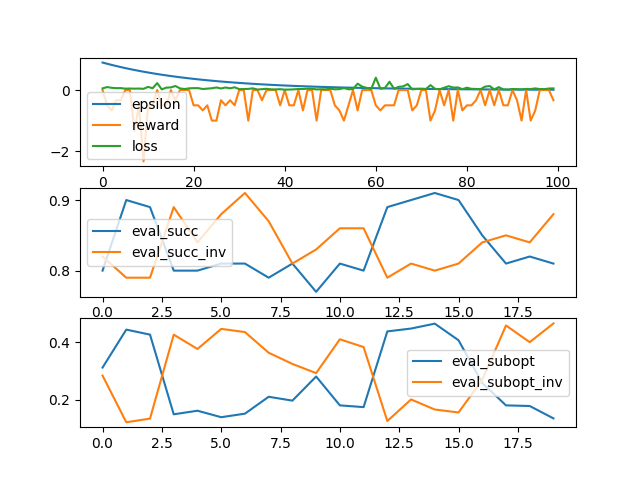
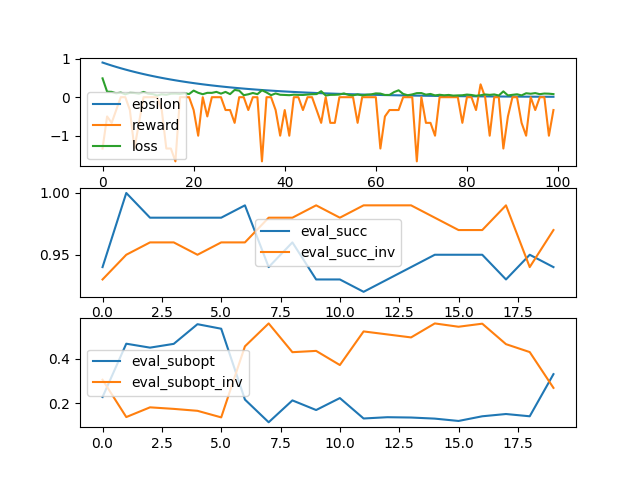
using disappearing agent

diff --git a/planner/mapf_with_rl/mapf_with_rl.py b/planner/mapf_with_rl/mapf_with_rl.py
@@ -1,4 +1,5 @@
 #!/usr/bin/env python3
+import logging
 import random
 from math import exp, isclose, log
 from typing import List, Optional, Tuple
@@ -8,6 +9,7 @@ import torch
 import torch.nn.functional as F
 from definitions import INVALID, SCENARIO_TYPE
 from matplotlib import pyplot as plt
+from planner.mapf_implementations.plan_ecbs import plan_in_gridmap
 from scenarios.evaluators import cost_ecbs
 from scenarios.generators import tracing_pathes_in_the_dark
 from sim.decentralized.iterators import IteratorType
@@ -25,13 +27,23 @@ from torch_geometric.nn import (GCNConv, global_add_pool, global_max_pool,
                                 global_mean_pool)
 
 
+def get_ecbs_cost(scen: SCENARIO_TYPE, ignore_finished_agents: bool):
+    env, starts, goals = scen
+    data = plan_in_gridmap(env, starts, goals, 1.2, 5, ignore_finished_agents)
+    if data is INVALID:
+        return INVALID
+    cost = data['statistics']['cost']
+    return cost / len(starts)
+
+
 class Scenario(object):
-    def __init__(self, this_data: SCENARIO_TYPE) -> None:
+    def __init__(self, this_data: SCENARIO_TYPE, ignore_finished_agents: bool) -> None:
         super().__init__()
         self.env, self.starts, self.goals = this_data
+        self.ignore_finished_agents = ignore_finished_agents
         # trying to solve with ecbs
-        self.ecbs_cost = cost_ecbs(
-            self.env, self.starts, self.goals, timeout=5)
+        self.ecbs_cost = get_ecbs_cost(
+            this_data, ignore_finished_agents)
         self.useful = False
         if self.ecbs_cost != INVALID:
             self.useful = True
@@ -83,7 +95,7 @@ class Scenario(object):
             self.env, self.agents, False,
             IteratorType.BLOCKING1,
             pause_on=PolicyCalledException,  # type: ignore
-            ignore_finished_agents=False)
+            ignore_finished_agents=self.ignore_finished_agents)
         # return either new state or results
         if has_exception(scenario_result):  # not done
             (average_time, _, _, _, exception
@@ -113,7 +125,7 @@ class Scenario(object):
         return state, reward
 
 
-def make_useful_scenarios(n: int, seed) -> List[Scenario]:
+def make_useful_scenarios(n: int, seed, ignore_finished_agents) -> List[Scenario]:
     scenarios: List[Scenario] = []
     if n > 1:
         pb = ProgressBar("Data Generation", n, 5)
@@ -127,7 +139,7 @@ def make_useful_scenarios(n: int, seed) -> List[Scenario]:
         (env, starts, goals) = scen_data
         collide, _ = will_they_collide_in_scen(env, starts, goals)
         if collide:
-            scen = Scenario(scen_data)
+            scen = Scenario(scen_data, ignore_finished_agents)
             if scen.useful:
                 if n > 1:
                     pb.progress()
@@ -219,7 +231,7 @@ def train(training_batch, qfun, optimizer):
     return mean_loss
 
 
-def evaluate(data_test: List[Scenario], qfun):
+def evaluate(data_test: List[Scenario], qfun, ignore_finished_agents, inverse):
     successfuls = []
     suboptimalities = []
     qfun.eval()
@@ -227,11 +239,14 @@ def evaluate(data_test: List[Scenario], qfun):
         for a in scenario.agents:
             # reset all agents
             a.back_to_the_start()
-            a.policy = QLearningPolicy(a)
+            if inverse:
+                a.policy = InverseQLearningPolicy(a)
+            else:
+                a.policy = QLearningPolicy(a)
             a.policy.set_qfun(qfun)
         res = run_a_scenario(a.env, scenario.agents,
                              False, IteratorType.BLOCKING1,
-                             ignore_finished_agents=False)
+                             ignore_finished_agents=ignore_finished_agents)
         assert not has_exception(res)
         (average_time, _, _, _, successful) = res
         successfuls.append(successful)
@@ -240,45 +255,18 @@ def evaluate(data_test: List[Scenario], qfun):
             suboptimalities.append(suboptimality)
             if (suboptimality < 0 and
                     not isclose(suboptimality, 0, abs_tol=1E-5)):
-                assert suboptimality >= 0
+                logging.warning(f"suboptimality: {suboptimality}")
     mean_successful = np.mean(np.array(successfuls))
     mean_suboptimality = np.mean(np.array(suboptimalities))
     print(f"successful: {mean_successful:.2f}, " +
-          f"suboptimality: {mean_suboptimality:.2f}")
-    return (mean_successful, mean_suboptimality)
-
-
-def evaluate_inverse(data_test: List[Scenario], qfun):
-    successfuls = []
-    suboptimalities = []
-    qfun.eval()
-    for scenario in data_test:
-        for a in scenario.agents:
-            # reset all agents
-            a.back_to_the_start()
-            a.policy = InverseQLearningPolicy(a)
-            a.policy.set_qfun(qfun)
-        res = run_a_scenario(a.env, scenario.agents,
-                             False, IteratorType.BLOCKING1,
-                             ignore_finished_agents=False)
-        assert not has_exception(res)
-        (average_time, _, _, _, successful) = res
-        successfuls.append(successful)
-        if successful:
-            suboptimality = average_time - scenario.ecbs_cost
-            suboptimalities.append(suboptimality)
-            if (suboptimality < 0 and
-                    not isclose(suboptimality, 0, abs_tol=1E-5)):
-                assert suboptimality >= 0
-    mean_successful = np.mean(np.array(successfuls))
-    mean_suboptimality = np.mean(np.array(suboptimalities))
-    print(f"(inv) successful: {mean_successful:.2f}, " +
-          f"suboptimality: {mean_suboptimality:.2f}")
+          f"suboptimality: {mean_suboptimality:.2f}, " +
+          f"inv: {inverse}")
     return (mean_successful, mean_suboptimality)
 
 
 def q_learning(n_episodes: int, eps_start: float,
-               c: int, gamma: float, n_training_batch: int):
+               c: int, gamma: float, n_training_batch: int,
+               ignore_finished_agents: bool):
     """Q-learning with experience replay
     pseudocode from https://github.com/diegoalejogm/deep-q-learning
     :param n_episodes: how many episodes to simulate
@@ -295,7 +283,8 @@ def q_learning(n_episodes: int, eps_start: float,
     eps_alpha = -1 * log(eps_end / eps_start) / n_episodes
 
     n_data_test = 100
-    data_test = make_useful_scenarios(n_data_test, n_episodes * 11)
+    data_test = make_useful_scenarios(
+        n_data_test, n_episodes * 11, ignore_finished_agents)
 
     qfun = Qfunction(6, 2, 16)
     qfun_hat = Qfunction(6, 2, 16)
@@ -331,7 +320,7 @@ def q_learning(n_episodes: int, eps_start: float,
     # 1
     for i_e in range(n_episodes):
         # 2
-        [scenario] = make_useful_scenarios(1, i_e * 10)
+        [scenario] = make_useful_scenarios(1, i_e * 10, ignore_finished_agents)
         epsilon = eps_start * exp(-eps_alpha * i_e)
         state = scenario.start()
         next_state = None
@@ -380,22 +369,16 @@ def q_learning(n_episodes: int, eps_start: float,
             epsilons.append(epsilon)
         if i_e % eval_every == 0:
             # evaluation qfun
-            succ, subopt = evaluate(data_test, qfun)
+            succ, subopt = evaluate(
+                data_test, qfun, ignore_finished_agents,
+                inverse=False)
             eval_succ.append(succ)
             eval_subopt.append(subopt)
-            # evaluation qfun_hat
-            # succ_hat, subopt_hat = evaluate(data_test, qfun_hat)
-            # eval_hat_succ.append(succ_hat)
-            # eval_hat_subopt.append(subopt_hat)
-            # evaluation qfun with inverted policy
-            succ_inv, subopt_inv = evaluate_inverse(data_test, qfun)
+            succ_inv, subopt_inv = evaluate(
+                data_test, qfun, ignore_finished_agents,
+                inverse=True)
             eval_succ_inv.append(succ_inv)
             eval_subopt_inv.append(subopt_inv)
-            # evaluation qfun_hat with inverted policy
-            # succ_hat_inv, subopt_hat_inv = evaluate_inverse(
-            #     data_test, qfun_hat)
-            # eval_hat_succ_inv.append(succ_hat_inv)
-            # eval_hat_subopt_inv.append(subopt_hat_inv)
         del scenario
         del state
         del next_state
@@ -419,11 +402,15 @@ def q_learning(n_episodes: int, eps_start: float,
 
 
 if __name__ == "__main__":
+    # ignoring errors in libMultiRobotPlanning
+    logging.getLogger(
+        'planner.mapf_implementations.plan_ecbs').setLevel(logging.FATAL)
     torch.manual_seed(0)
     q_learning(
         n_episodes=2000,
         eps_start=.9,
         c=10,
         gamma=.99,
-        n_training_batch=100
+        n_training_batch=100,
+        ignore_finished_agents=True
     )

diff --git a/planner/mapf_with_rl/mapf_with_rl_test.py b/planner/mapf_with_rl/mapf_with_rl_test.py
@@ -36,13 +36,13 @@ class TestMapfWithRl(unittest.TestCase):
             [2, 1]])  # this will block
 
     def test_scenario_init_useful(self):
-        s = Scenario((self.env, self.starts, self.goals))
+        s = Scenario((self.env, self.starts, self.goals), True)
         self.assertTrue(s.useful)
 
     def test_scenario_init_not_useful(self):
         env_blocked = self.env.copy()
         env_blocked[1, 1] = 1
-        s = Scenario((env_blocked, self.starts, self.goals))
+        s = Scenario((env_blocked, self.starts, self.goals), True)
         self.assertFalse(s.useful)
 
     def _data_equality(self, a: Data, b: Data):
@@ -57,12 +57,12 @@ class TestMapfWithRl(unittest.TestCase):
 
     def test_scenario_running(self):
         # Different actions lead to different results.
-        s0 = Scenario((self.env, self.starts, self.goals))
+        s0 = Scenario((self.env, self.starts, self.goals), False)
         first_state_0 = s0.start()
         second_state_action_0, reward_0 = s0.step(0)
         self.assertEqual(reward_0, 0)
 
-        s1 = Scenario((self.env, self.starts, self.goals))
+        s1 = Scenario((self.env, self.starts, self.goals), False)
         self.assertEqual(s1.agent_first_raised, None)
         first_state_1 = s1.start()
         self.assertEqual(s1.agent_first_raised, 0)
@@ -84,9 +84,9 @@ class TestMapfWithRl(unittest.TestCase):
         self.assertEqual(reward_0, s0.UNSUCCESSFUL_COST)
 
     def test_make_useful_scenarios(self):
-        scenarios_0 = make_useful_scenarios(3, 0)
+        scenarios_0 = make_useful_scenarios(3, 0, True)
         self.assertEqual(len(scenarios_0), 3)
-        scenarios_1 = make_useful_scenarios(3, 1)
+        scenarios_1 = make_useful_scenarios(3, 1, True)
         self.assertEqual(len(scenarios_1), 3)
 
         for s in scenarios_0 + scenarios_1:

diff --git a/sim/decentralized/policy.py b/sim/decentralized/policy.py
@@ -37,15 +37,18 @@ class PolicyType(Enum):
     CLOSEST = auto()
     FILL = auto()
     LEARNED = auto()
+    INVERSE_LEARNED = auto()
     LEARNED_RAISING = auto()
-    INV_LEARNED = auto()
+    Q_LEARNING_POLICY = auto()
+    INVERSE_Q_LEARNING_POLICY = auto()
     ONE_THEN_RANDOM = auto()
     ZERO_THEN_RANDOM = auto()
+    FIRST_THEN_RAISING = auto()
 
 
 class Policy(object):
     @classmethod
-    def construct_by_type(cls, type: PolicyType, agent):
+    def construct_by_type(cls, type: PolicyType, agent, **kwargs):
         if type == PolicyType.RANDOM:
             return RandomPolicy(agent)
         elif type == PolicyType.CLOSEST:
@@ -54,14 +57,20 @@ class Policy(object):
             return FillPolicy(agent)
         elif type == PolicyType.LEARNED:
             return LearnedPolicy(agent)
+        elif type == PolicyType.INVERSE_LEARNED:
+            return InverseLearnedPolicy(agent)
         elif type == PolicyType.LEARNED_RAISING:
             return LearnedRaisingPolicy(agent)
-        elif type == PolicyType.INV_LEARNED:
-            return InverseLearnedPolicy(agent)
+        elif type == PolicyType.Q_LEARNING_POLICY:
+            return QLearningPolicy(agent)
+        elif type == PolicyType.INVERSE_Q_LEARNING_POLICY:
+            return InverseQLearningPolicy(agent)
         elif type == PolicyType.ONE_THEN_RANDOM:
             return FirstThenRandomPolicy(agent, 1.)
         elif type == PolicyType.ZERO_THEN_RANDOM:
             return FirstThenRandomPolicy(agent, 0.)
+        elif type == PolicyType.FIRST_THEN_RAISING:
+            return FirstThenRaisingPolicy(agent, **kwargs)
 
     def __init__(self, agent) -> None:
         super().__init__()

diff --git a/planner/mapf_implementations/plan_ecbs.py b/planner/mapf_implementations/plan_ecbs.py
@@ -44,7 +44,6 @@ def to_inputfile(gridmap, starts, goals, fname):
 def read_outfile(fname):
     with open(fname, 'r') as f:
         data = yaml.load(f, Loader=yaml.SafeLoader)
-    print(data)
     return data
 
 
@@ -117,20 +116,35 @@ def plan_in_gridmap(gridmap: np.ndarray, starts, goals,
 
 
 if __name__ == "__main__":
+    # gridmap = np.array([
+    #     [0, 0, 1, 0],
+    #     [0, 0, 1, 0],
+    #     [0, 0, 0, 0],
+    #     [0, 0, 1, 0],
+    #     [0, 0, 1, 0],
+    # ])
+    # starts = [
+    #     [0, 1],
+    #     [4, 1]
+    # ]
+    # goals = [
+    #     [0, 3],
+    #     [4, 3]
+    # ]
+    # res = plan_in_gridmap(gridmap, starts, goals, 1.5, 10, True)
+    # print(res)
+
     gridmap = np.array([
-        [0, 0, 1, 0],
-        [0, 0, 1, 0],
+        [0, 0, 1, 1],
+        [0, 0, 0, 1],
         [0, 0, 0, 0],
-        [0, 0, 1, 0],
-        [0, 0, 1, 0],
+        [0, 0, 0, 1]
     ])
-    starts = [
-        [0, 1],
-        [4, 1]
-    ]
-    goals = [
-        [0, 3],
-        [4, 3]
-    ]
+    starts = [[1, 2],
+              [3, 2],
+              [2, 1]]
+    goals = [[3, 0],
+             [2, 2],
+             [0, 0]]
     res = plan_in_gridmap(gridmap, starts, goals, 1.5, 10, True)
     print(res)

diff --git a/sim/decentralized/runner.py b/sim/decentralized/runner.py
@@ -250,7 +250,7 @@ def evaluate_policies(size=10, n_agents=10, runs=100, plot_eval=True):
                 PolicyType.FILL,
                 PolicyType.RANDOM,
                 PolicyType.LEARNED,
-                PolicyType.INV_LEARNED]
+                PolicyType.INVERSE_LEARNED]
     pb = ProgressBar("evaluate_policies", len(policies)*runs, 5)
 
     for policy in policies:
